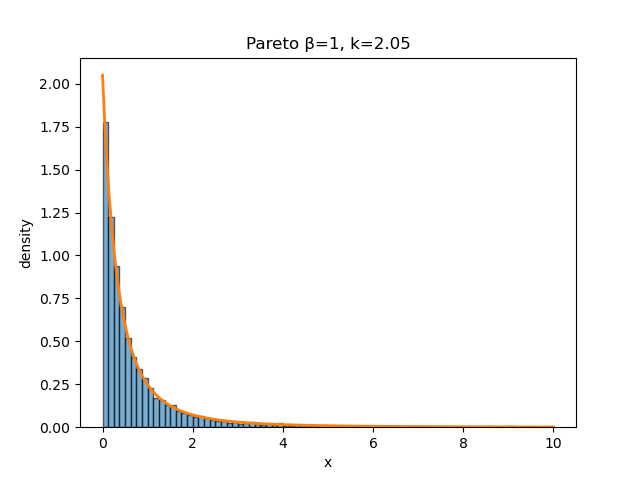
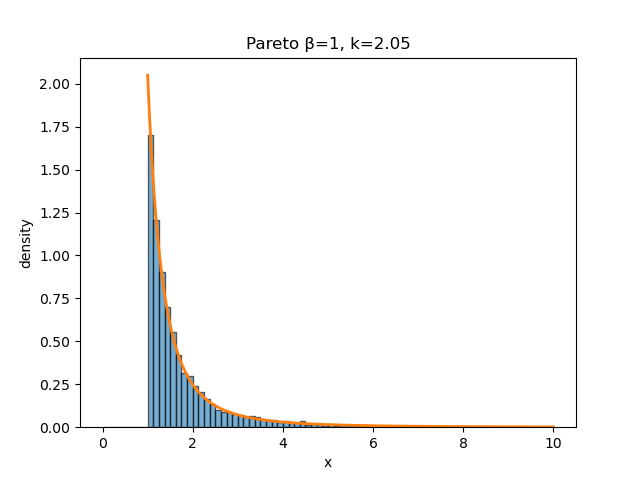
E3 pareto update

Changed region(s): [[0.1562, 0.1562, 0.5625, 0.9062], [0.625, 0.875, 0.6562, 0.9062]]

diff --git a/E3/E3.py b/E3/E3.py
@@ -26,6 +26,7 @@ plt.show()
 #tests
 ks_stat, ks_p = kstest(exp_sample, 'expon')
 ad_stat, _, _ = anderson(exp_sample, 'expon')
+print(f'Exp dist. KS-stat:{ks_stat} KS-p:{ks_p}')
 
 #b)
 norm_sample =  norm.rvs(size=N)
@@ -42,6 +43,7 @@ plt.show()
 
 ks_stat, ks_p = kstest(norm_sample, 'norm')
 ad_stat, crit, sig = anderson(norm_sample, 'norm')
+print(f'Normal dist. KS-stat:{ks_stat} KS-p:{ks_p}')
 
 #c)
 k_vals = [2.05, 2.5, 3, 4]
@@ -49,24 +51,25 @@ N = 10_000
 beta = 1
 rows = []
 for k in k_vals:
-    u = np.random.default_rng().random(N)
-    pareto_sample = (1 - u)**(-1/k) - 1       # inverse-cdf
+    u = np.random.default_rng()
+    pareto_sample = pareto.rvs(b=k, scale=beta, size=N, random_state=u)
 
     # ----- plot --------------------------------------------------
     fig, ax = plt.subplots()
     ax.hist(pareto_sample, bins=80, range=(0, 10), density=True,
             alpha=0.6, edgecolor='black')
-    x = np.linspace(0, 10, 400)
-    pdf = k * (1+x)**(-k-1)
+    x = np.linspace(beta, 10, 400)
+    pdf = k * beta**k / x**(k + 1)
     ax.plot(x, pdf, linewidth=2)
     ax.set_title(f"Pareto β=1, k={k}")
     ax.set_xlabel("x"); ax.set_ylabel("density")
     filename = f"Figures/Pareto-3-{k:.2f}.png"  # e.g. "pareto_hist_k_2.05.png"
-    #fig.savefig(filename)
+    fig.savefig(filename)
     plt.show()
 
     # ----- KS test ----------------------------------------------
     ks_stat, ks_p = kstest(pareto_sample, 'pareto', args=(k,))
+    print(f'Pareto ks-p, with k = {k}: {ks_p}')
 
     #2)
     sample_mean = pareto_sample.mean()
